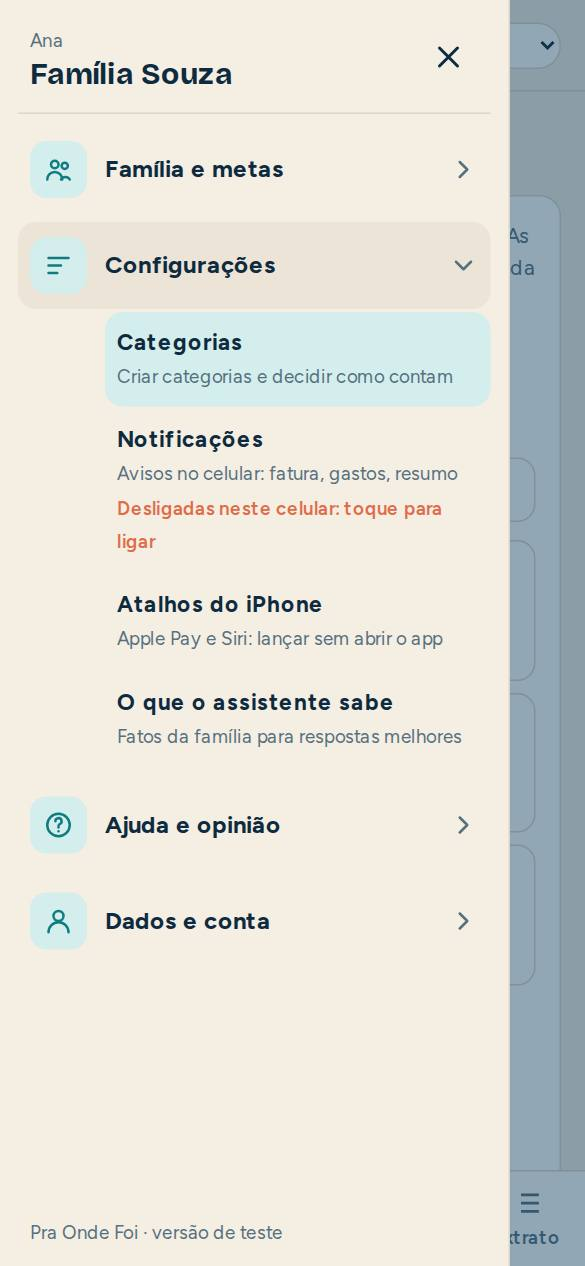
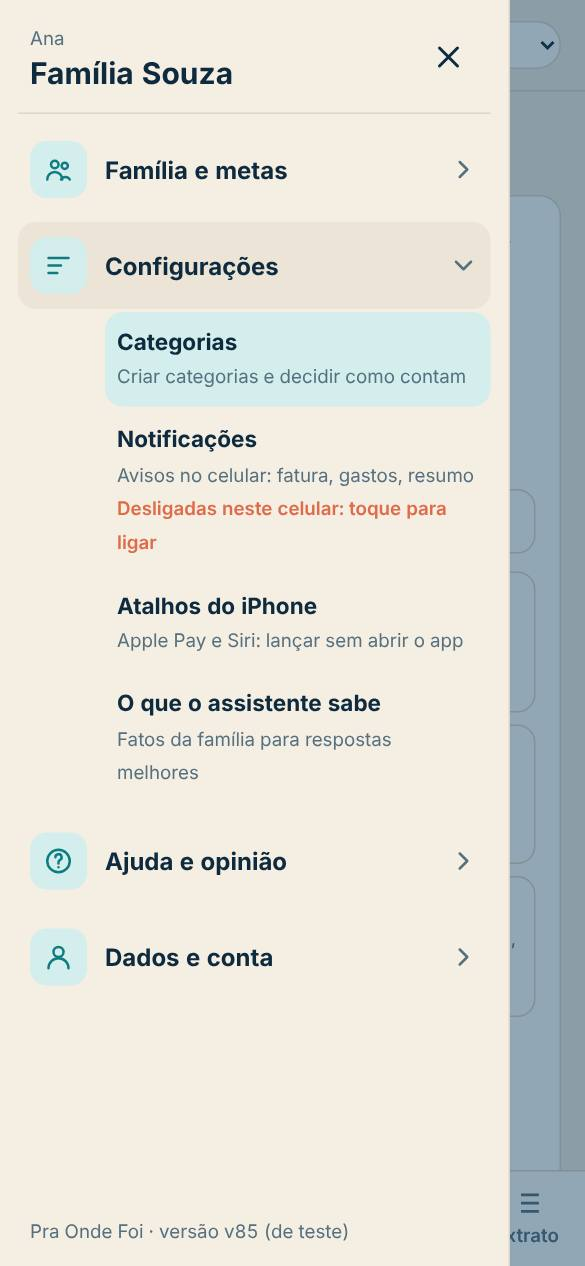
v85: app version in the menu, About and Central; offer and load a new version when coming back to the app
Claude-Session: https://claude.ai/code/session_01HTxyDPPEQrF1SknoQ9axHM

diff --git a/public/js/admin/content.js b/public/js/admin/content.js
@@ -11,7 +11,7 @@ export const FEATURE_LABELS = {
   'perguntar.enviar': 'Pergunta ao assistente', 'fechar.mes': 'Fechou um mês', 'graficos.salvar': 'Salvou gráfico', privacidade: 'Modo privacidade',
   'opiniao.erro': 'Mandou erro', 'opiniao.ideia': 'Mandou ideia', 'opiniao.critica': 'Mandou crítica', 'duvida.ler': 'Leu uma dúvida', 'duvida.perguntar': 'Perguntou nas Dúvidas',
   'menu.familia': 'Menu: Família', 'menu.divisao': 'Menu: Quem paga o quê', 'menu.metas': 'Menu: Metas', 'menu.patrimonio': 'Menu: Patrimônio', 'menu.categorias': 'Menu: Categorias',
-  'menu.avisos': 'Menu: Notificações', 'avisos.convite_sim': 'Aceitou ligar as notificações (pop-up)', 'avisos.convite_nao': 'Disse "agora não" às notificações (pop-up)', 'avisos.ligou': 'Ligou as notificações neste celular', 'aviso.tocou': 'Tocou numa notificação e foi direto ao lugar', 'avisos.teste_chegou': 'O aviso de teste apareceu no celular', 'avisos.teste_nao_chegou': 'Aviso de teste não chegou ao celular (bateria ou internet)', 'avisos.teste_nao_mostrou': 'Aviso de teste chegou, mas o celular não mostrou (ajustes)', 'avisos.teste_bloqueado': 'O celular bloqueou o aviso de teste', 'teste.jornada': 'Dono do produto: rever os convites de abertura', 'menu.contexto': 'Menu: O que o assistente sabe', 'menu.ajuda': 'Menu: Ajuda', 'menu.duvidas': 'Menu: Dúvidas', 'menu.opiniao': 'Menu: Dar opinião',
+  'menu.avisos': 'Menu: Notificações', 'app.atualizar': 'Tocou em "atualizar agora" (versão nova)', 'avisos.convite_sim': 'Aceitou ligar as notificações (pop-up)', 'avisos.convite_nao': 'Disse "agora não" às notificações (pop-up)', 'avisos.ligou': 'Ligou as notificações neste celular', 'aviso.tocou': 'Tocou numa notificação e foi direto ao lugar', 'avisos.teste_chegou': 'O aviso de teste apareceu no celular', 'avisos.teste_nao_chegou': 'Aviso de teste não chegou ao celular (bateria ou internet)', 'avisos.teste_nao_mostrou': 'Aviso de teste chegou, mas o celular não mostrou (ajustes)', 'avisos.teste_bloqueado': 'O celular bloqueou o aviso de teste', 'teste.jornada': 'Dono do produto: rever os convites de abertura', 'menu.contexto': 'Menu: O que o assistente sabe', 'menu.ajuda': 'Menu: Ajuda', 'menu.duvidas': 'Menu: Dúvidas', 'menu.opiniao': 'Menu: Dar opinião',
   'menu.applepay': 'Menu: Atalhos do iPhone', 'conta.zerar': 'Zerou os lançamentos da família', 'extrato.anotacao': 'Anotou um lançamento', 'extrato.categoria': 'Filtrou o Extrato por categoria', 'categorias.juntar': 'Juntou duas categorias', 'lancar.varios': 'Enviou vários arquivos de uma vez', 'lancar.planilha': 'Trouxe lançamentos de uma planilha', 'backup.planilha': 'Baixou a planilha (CSV)', 'exemplo.fatura': 'Do mês de exemplo, foi enviar a fatura', 'exemplo.falar': 'Do mês de exemplo, foi lançar falando', 'seguranca.biometria': 'Ligou a digital ou o rosto', 'seguranca.desbloqueio_bio': 'Entrou de novo com a digital ou o rosto', 'seguranca.desbloqueio_senha': 'Entrou de novo com a senha', 'seguranca.aviso': 'Viu o aviso "vamos desconectar em 30 s"', 'seguranca.continuar': 'Tocou em Continuar no app (aviso de inatividade)', 'seguranca.desconectar': 'Tocou em Desconectar agora (aviso de inatividade)', 'seguranca.tempo': 'Mudou o tempo para desconectar', 'seguranca.bloquear': 'Desconectou o app na mão', 'applepay.codigo': 'Gerou código do atalho do iPhone', 'lancar.comprovante': 'Leu comprovante compartilhado', 'atalho.voz': 'Abriu pelo atalho Falar', 'atalho.nota': 'Abriu pelo atalho Nota', 'atalho.pdf': 'Abriu pelo atalho PDF', 'atalho.compartilhar': 'Compartilhou algo com o app', sininho: 'Abriu o sininho', 'menu.backup': 'Menu: Backup', 'menu.sobre': 'Menu: Sobre', 'menu.metricas': 'Menu: Métricas', 'menu.conta': 'Menu: Conta',
 };
 export const AREA_LABELS = { extrato: 'Extrato', conta: 'Conta', exemplo: 'Mês de exemplo', seguranca: 'Segurança', atalho: 'Atalhos', applepay: 'Atalhos do iPhone', aba: 'Abas', lancar: 'Lançar', perguntar: 'Perguntar', fechar: 'Fechar o mês', graficos: 'Gráficos', privacidade: 'Privacidade', opiniao: 'Opinião', duvida: 'Dúvidas', menu: 'Menu' };

diff --git a/public/js/lib/faq.js b/public/js/lib/faq.js
@@ -38,6 +38,7 @@ export const FAQ = [
   { id: 'ritmo_sonho', t: 'comeco', q: 'De onde vem o "ritmo" do sonho no Início?', a: 'É a média do que sobrou de verdade nos últimos 3 meses completos (com o extrato da conta), e muda sozinha a cada mês. Ao lado aparecem os meses usados. Se vocês acham que conseguem guardar outro valor, digam em menu ☰ → Família e metas → Metas, em "Quanto vocês acham que conseguem guardar": vira o cenário "O plano de vocês". O valor do sonho e a idade também se mudam lá.' },
   { id: 'quanto_guardei', t: 'comeco', q: 'Como vejo quanto guardei em cada mês e no ano?', a: 'No Início, escolha o mês no topo: aparece quanto sobrou e a porcentagem da renda. Em Gráficos há modelos prontos: "Quanto sobrou em cada mês", "Quanto já guardamos no ano" (a soma mês a mês) e "Quanto guardamos da renda". Toque em "Salvar este" para guardar.' },
   { id: 'por_dia', t: 'comeco', q: 'O que é o "dá para gastar cerca de R$ X por dia no cartão"?', a: 'Quando vocês combinam um limite para o cartão (menu ☰ → Metas), o Início mostra quanto ainda cabe até a fatura fechar, dividido pelos dias que faltam. Se a fatura já passou do limite, aparece o aviso de cartão acima do limite.' },
+  { id: 'versao', t: 'comeco', q: 'Como sei qual versão do app eu tenho?', a: 'No fim do menu ☰ aparece "versão v85" (o número muda a cada atualização), e também em menu ☰ → Dados e conta → Sobre o app. O app se atualiza sozinho: quando sai uma versão nova com o app aberto, aparece no fim do menu "Tem versão nova: atualizar agora", e na próxima vez que você voltar ao app depois de um tempo fora, ele já abre na versão nova (nunca no meio de um envio ou de uma revisão).' },
   { id: 'avisos_nao_chegam', t: 'comeco', q: 'Não recebo as notificações do app. O que faço?', a: 'As notificações são ligadas em cada celular. Abra o app pelo ícone, vá em menu ☰ → Notificações e toque em Ativar avisos neste celular; quando o celular perguntar, toque em Permitir. Depois toque em Enviar aviso de teste. Se ele não aparecer, toque em Não apareceu: o app mostra o que conferir nos ajustes do seu celular (notificações do app ou do Chrome, Não perturbe, economia de bateria). No iPhone, o app precisa estar instalado na tela de início.' },
   { id: 'bloqueio', t: 'seguranca', q: 'Por que o app me desconectou sozinho?', a: 'Para proteger os números da família, como fazem os apps de banco: depois de alguns minutos sem uso, o app avisa "vamos desconectar em 30 segundos" (dá para tocar em Continuar no app). Se ninguém tocar, aparece a tela de entrada: toque em Entrar e use a digital ou o rosto (se ligou) ou a senha. O tempo (1 a 30 minutos) fica em menu ☰ → Dados e conta → Conta. Não existe a opção de nunca desconectar.' },
   { id: 'biometria', t: 'seguranca', q: 'Dá para entrar com a digital ou o rosto?', a: 'Sim, se você ligar. O próprio app oferece (é só tocar em "Sim, usar" e confirmar no celular). Se preferir, em menu ☰ → Dados e conta → Conta, toque em "Entrar com a digital ou o rosto" e confirme no celular. Depois, na tela de entrada, o celular só pede a digital ou o rosto quando você toca em Entrar. A digital e o rosto ficam no próprio celular: o app nunca recebe. Dá para desligar quando quiser, no mesmo lugar. Vale para aquele aparelho; no primeiro acesso de um aparelho novo, entre com e-mail e senha.' },

diff --git a/public/js/lib/releases.js b/public/js/lib/releases.js
@@ -4,7 +4,7 @@
 // The server applies each entry once, at the first app opening after the deploy.
 // tests/release.test.mjs blocks a release without its entry (Definição de pronto, see CLAUDE.md).
 import { BUG_STUDY } from './bugstudy.js';
-import { NEW_DOCS, DOC_AVISOS, DOC_SONHO, DOC_SEGURANCA, DOC_LANCAR } from './docsections.js';
+import { NEW_DOCS, DOC_AVISOS, DOC_SONHO, DOC_SEGURANCA, DOC_LANCAR, DOC_TESTES } from './docsections.js';
 
 export const RELEASES = [
   { id: 'r27', version: 'v26', at: '2026-10-30T15:00:00Z', backlog: [], news: { id: 'n20261030', title: 'Sua opinião agora tem lugar no app', items: [
@@ -240,5 +240,12 @@ export const RELEASES = [
     { id: 'central_uma_hora', title: 'Central do produto desconecta só depois de 1 hora', status: 'feito', origin: 'Luiz', effort: 'P', problem: 'A Central bloqueava em 5 minutos, como o app, mas não tem números da família', cost: false, notes: 'Tempo fixo de 1 hora na Central, com o mesmo aviso antes; o app continua com o tempo escolhido em Conta.', from: [], where: 'Central' },
     { id: 'menu_configuracoes', title: 'Menu: "Organizar o app" passa a ser "Configurações"', status: 'feito', origin: 'Luiz', effort: 'P', problem: 'O nome do grupo não dizia o que tinha dentro', cost: false, notes: 'Grupo com Categorias, Notificações, Atalhos do iPhone e O que o assistente sabe.', from: [], where: 'Menu ☰' },
     { id: 'lancar_varios_claro', title: 'Lançar: deixar claro que dá para mandar vários arquivos e planilha', status: 'feito', origin: 'Luiz', effort: 'P', problem: 'A opção de mandar vários arquivos e a planilha existiam, mas ficavam escondidas num texto pequeno', cost: false, notes: 'Selo "Vários de uma vez" no botão; caixa "O que dá para mandar" com os 4 casos; botão "Escolher arquivos (um ou vários)"; ajuda de como marcar vários no iPhone e no Android.', from: [], where: 'Lançar → Fatura ou extrato' },
+  ] },
+  { id: 'r85', version: 'v85', at: '2026-11-04T16:46:00Z', backlog: [], news: { id: 'n20261104i', title: 'A versão do app à vista', items: [
+    'No fim do menu ☰ aparece a versão do app (por exemplo, "versão v85"). Também está em Sobre o app.',
+    'Saiu uma versão nova com o app aberto? O fim do menu mostra "Tem versão nova: atualizar agora".',
+    'E, ao voltar para o app depois de um tempo fora, ele já abre na versão nova, sem atrapalhar um envio ou uma revisão.',
+  ] }, updateDocs: [DOC_TESTES], addBacklog: [
+    { id: 'versao_visivel_e_atualizar', title: 'Versão do app à vista e atualização sem precisar fechar o app', status: 'feito', origin: 'Luiz', effort: 'P', problem: 'No teste da v84 o celular ainda rodava a versão anterior (o app estava aberto quando a nova saiu) e não havia como ver qual versão estava no celular', cost: false, notes: 'Versão no fim do menu, em Sobre o app e no topo da Central. Com versão nova: botão "atualizar agora" no menu e, ao voltar ao app depois de 1 minuto fora sem nada em andamento (fora de Lançar, sem pop-up nem revisão aberta), abre sozinho na nova.', from: [], where: 'Menu ☰' },
   ] },
 ];

diff --git a/public/js/menu.js b/public/js/menu.js
@@ -3,6 +3,7 @@ import { S } from './state.js';
 import { $ } from './ui.js';
 import { esc } from './lib/format.js';
 import { menuNote } from './lib/pushask.js';
+import { APP_VERSION, track } from './usage.js';
 
 const I = p => `<svg viewBox="0 0 24 24" fill="none" stroke="currentColor" stroke-width="2" stroke-linecap="round" stroke-linejoin="round" aria-hidden="true">${p}</svg>`;
 export const SECTIONS = [
@@ -52,12 +53,13 @@ export function openMenu() {
       return `<div class="mgroup${open ? ' open' : ''}" data-g="${g.id}"><button type="button" class="mgh" aria-expanded="${open}" aria-controls="mg-${g.id}"><span class="di">${g.icon}</span><strong>${g.title}</strong>${alert && !open ? '<span class="mdot" aria-label="Notificações desligadas"></span>' : ''}<span class="mchev" aria-hidden="true">${I('<path d="M9 6l6 6-6 6"/>')}</span></button>
       <ul class="drawer-list" id="mg-${g.id}"${open ? '' : ' hidden'}>${items.map(x => `<li><button type="button" data-sec="${x.key}" ${S.tab === 'ajustes' && S.sec === x.key ? 'aria-current="page"' : ''}>
         <span><strong>${x.title}</strong><br><span class="tiny muted">${x.desc}</span>${x.key === 'avisos' && menuNote(S.pushStatus) ? `<br><span class="tiny dnote">${menuNote(S.pushStatus)}: toque para ligar</span>` : ''}</span></button></li>`).join('')}</ul></div>`; }).join('')}</div>
-    <p class="tiny muted drawer-foot">Pra Onde Foi · versão de teste</p>`;
+    <div class="drawer-foot">${S.updateReady ? '<button class="btn primary" type="button" id="updNow">Tem versão nova: atualizar agora</button>' : ''}<p class="tiny muted" id="appVer">Pra Onde Foi · versão ${APP_VERSION} (de teste)</p></div>`;
   lastFocus = document.activeElement;
   dr.hidden = bg.hidden = false; document.body.style.overflow = 'hidden';
   requestAnimationFrame(() => { dr.classList.add('open'); bg.classList.add('open'); });
   $('#menuBtn').setAttribute('aria-expanded', 'true');
   $('#drawerX').onclick = () => closeMenu();
+  if ($('#updNow')) $('#updNow').onclick = () => { track('app.atualizar'); location.reload(); };
   dr.querySelectorAll('[data-sec]').forEach(b => b.onclick = () => { S.sec = b.dataset.sec; closeMenu(false); S.go('ajustes'); });
   // One group open at a time; tapping the open one closes it.
   dr.querySelectorAll('.mgh').forEach(h => h.onclick = () => {

diff --git a/public/js/main.js b/public/js/main.js
@@ -286,7 +286,17 @@ configureCatPicker({
 (async function boot() {
   // Registered first thing: Android only offers a real install (our icon and name) once the service worker is active.
   if ('serviceWorker' in navigator) {
-    navigator.serviceWorker.register('/sw.js').catch(() => {});
+    const hadSW = !!navigator.serviceWorker.controller;
+    navigator.serviceWorker.register('/sw.js').then(r => { document.addEventListener('visibilitychange', () => { if (!document.hidden) r.update().catch(() => {}); }); }).catch(() => {});
+    // A new version took over (the app was open while it was published): the menu offers it, and coming back to
+    // the app after a while with nothing in progress loads it by itself.
+    navigator.serviceWorker.addEventListener('controllerchange', () => { if (hadSW) S.updateReady = true; });
+    let hiddenAt = 0;
+    document.addEventListener('visibilitychange', () => {
+      if (document.hidden) { hiddenAt = Date.now(); return; }
+      const busy = document.querySelector('.busyov, .cfm-wrap, .ann, #review:not([hidden]), #shReview:not([hidden]), #rcReview:not([hidden]), #pwBox:not([hidden])') || S.tab === 'lancar';
+      if (S.updateReady && hiddenAt && Date.now() - hiddenAt > 60e3 && !busy) location.reload();
+    });
     navigator.serviceWorker.addEventListener('message', e => { if (e.data?.type === 'open' && S.hh) openLink(parseLink(e.data.url)); });
   }
   captureInviteFromUrl();

diff --git a/public/js/admin/admin.js b/public/js/admin/admin.js
@@ -2,6 +2,7 @@
 // Only for ADMIN_EMAILS: the data comes from /api/admin and /api/metrics, which check the login.
 import * as db from '../db.js';
 import { initLock } from '../lock.js';
+import { APP_VERSION } from '../usage.js';
 import { esc } from '../lib/format.js';
 import { $, toast, confirmInline, invalid, clearInvalid, md } from '../ui.js';
 import { checkName, checkNumber } from '../lib/validate.js';
@@ -80,7 +81,7 @@ async function save(key, msg) {
   const { data } = await db.sb.auth.getSession();
   token = data?.session?.access_token || '';
   if (!token) { $('#aMain').innerHTML = '<div class="panel stack"><h2>Entre primeiro</h2><p class="small">Abra o app, entre com o seu e-mail e senha e volte para esta página.</p><div><a class="btn primary" href="/">Abrir o app</a></div></div>'; return; }
-  $('#aWho').textContent = data.session.user.email;
+  $('#aWho').textContent = data.session.user.email + ' · versão ' + APP_VERSION;
   initLock({ sb: db.sb, user: data.session.user.id, name: data.session.user.user_metadata?.display_name || '', email: data.session.user.email, minutes: 60 }); // no family numbers here: one hour
   try {
     const [b, p, c, f, sv, dc, nw] = await Promise.all(['backlog', 'pricing', 'canvas', 'faq', 'services', 'docs', 'news'].map(k => api('GET', k)));

diff --git a/public/js/views/ajustes.js b/public/js/views/ajustes.js
@@ -1,6 +1,6 @@
 import { S, settings, goals, reindex, monthKeys, txsOf, presets } from '../state.js';
 import * as db from '../db.js';
-import { track } from '../usage.js';
+import { track, APP_VERSION } from '../usage.js';
 import { KINDS, kindOf, kindByKey, byCategory } from '../lib/calc.js';
 import { suggestBudgets, budgetsOf } from '../lib/budget.js';
 import { esc, todayISO, brl } from '../lib/format.js';
@@ -100,7 +100,7 @@ export function render(el) {
 
   <div class="panel stack" data-sec="sobre">
     <h2>Sobre o app</h2>
-    <p class="small"><strong>Pra Onde Foi</strong> mostra para onde vai o dinheiro da família: lê faturas e extratos em PDF de qualquer banco, confere os totais e separa por categoria. Versão de teste com família e amigos.</p>
+    <p class="small"><strong>Pra Onde Foi</strong> mostra para onde vai o dinheiro da família: lê faturas e extratos em PDF de qualquer banco, confere os totais e separa por categoria. Versão de teste com família e amigos. Este celular está na versão <strong id="aboutVer">${APP_VERSION}</strong> (aparece também no fim do menu ☰).</p>
     <h3>O que o app guarda</h3>
     <ul class="small">
       <li>Os lançamentos, as categorias, as metas e os ajustes da sua família. Só quem está na família vê.</li>

diff --git a/public/js/lib/testbook.js b/public/js/lib/testbook.js
@@ -97,6 +97,9 @@ export const TESTS = [
     'Um lançamento por linha, com acentos certos, valores com vírgula e a coluna "Cartão ou conta".'),
   t('menu_configuracoes', 'Menu e telas', 'v84', 'ambos', 'Grupo Configurações no menu',
     ['Abra o menu ☰.'], 'O grupo com Categorias, Notificações, Atalhos do iPhone e O que o assistente sabe se chama Configurações.', true),
+  t('versao_no_menu', 'Menu e telas', 'v85', 'ambos', 'Ver a versão do app e atualizar',
+    ['Abra o menu ☰ e role até o fim.', 'Depois de uma versão nova sair, com o app aberto, abra o menu de novo.', 'Saia do app por mais de 1 minuto e volte.'],
+    'O fim do menu mostra "versão v85 (de teste)". Com versão nova, aparece "Tem versão nova: atualizar agora"; ao voltar depois de 1 minuto fora, o app já abre na versão nova (a não ser que esteja em Lançar ou com uma revisão aberta).', true),
   // Segurança
   t('aviso_desconectar', 'Segurança', 'v84', 'ambos', 'Aviso antes de desconectar',
     ['Menu ☰ → Dados e conta → Conta → Desconectar depois de: 1 minuto.', 'Deixe o app aberto, sem tocar, por uns 40 segundos.', 'Toque em Continuar no app.', 'Espere de novo, sem tocar, até passar 1 minuto.'],

diff --git a/public/sw.js b/public/sw.js
@@ -1,6 +1,6 @@
 // Service worker: caches the app shell so it opens fast and installs as an app.
 // Data and /api calls always go to the network.
-const VERSION = 'v84';
+const VERSION = 'v85';
 const SHELL = ['/', '/index.html', '/css/app.css', '/js/main.js', '/js/db.js', '/js/ai.js', '/js/ui.js', '/js/state.js', '/js/speech.js', '/js/tour.js', '/js/steps.js', '/js/onboarding.js', '/js/art.js', '/js/install.js', '/js/push.js', '/js/metrics.js', '/js/privacy.js', '/js/lib/recurring.js', '/js/lib/settle.js', '/js/photos.js', '/js/menu.js', '/js/coach.js', '/js/views/graficos.js', '/js/views/fechar.js', '/js/lib/closing.js', '/js/lib/charts.js', '/js/lib/receipt.js', '/js/lib/insights.js', '/js/lib/budget.js', '/js/lib/pricing.js', '/js/lib/faq.js', '/js/feedback.js', '/js/usage.js', '/js/lib/navlog.js', '/js/applepay.js', '/js/lib/quick.js', '/js/lib/feed.js', '/js/messages.js', '/js/lib/news.js',
   '/js/lib/format.js', '/js/lib/calc.js', '/js/lib/categorize.js', '/js/lib/parse.js', '/js/lib/validate.js',
   '/js/views/resumo.js', '/js/views/lancar.js', '/js/views/perguntar.js', '/js/views/extrato.js', '/js/views/ajustes.js',

diff --git a/public/js/lib/docsections.js b/public/js/lib/docsections.js
@@ -57,6 +57,7 @@ export const DOC_AVISOS = { id: 'notificacoes_doc', title: 'Notificações: do s
 
 export const DOC_TESTES = { id: 'caderno_doc', title: 'Caderno de testes', body: `- Planejar → Caderno de testes lista o que testar num celular de verdade, por funcionalidade: passos e o que deve acontecer.
 - "Robô também testa": o teste automático já confere a cada mudança (navegador do computador e Safari do iPhone).
+- Antes de testar, confira a versão no fim do menu ☰ do celular ("versão v85"). Ela tem de ser a mesma da versão em teste; se for anterior, toque em "Tem versão nova: atualizar agora" ou feche o app de vez e abra de novo. A Central mostra a versão no topo, ao lado do e-mail.
 - Marque Passou ou Falhou. Falhou vira bug no backlog, em Agora, com o que aconteceu.
 - Toda versão com algo visível precisa trazer seus casos (Definição de pronto; o teste automático bloqueia a publicação sem eles).` };
 

diff --git a/public/js/usage.js b/public/js/usage.js
@@ -5,7 +5,7 @@ import * as db from './db.js';
 import { S } from './state.js';
 import { tapCell, tapLabel, cleanError } from './lib/navlog.js';
 
-export const APP_VERSION = 'v84';
+export const APP_VERSION = 'v85';
 const OK = /^[a-z_]{2,20}(\.[a-z_]{2,20})?$/;
 export const device = () => { const u = navigator.userAgent; return (/iphone|ipad/i.test(u) ? 'iPhone' : /android/i.test(u) ? 'Android' : /mac/i.test(u) ? 'Mac' : /windows/i.test(u) ? 'Windows' : 'Outro') + (window.matchMedia?.('(display-mode: standalone)').matches || navigator.standalone ? ' · app instalado' : ' · navegador'); };
 export const screenOf = () => S.tab === 'ajustes' ? 'menu.' + (S.sec || 'familia') : S.tab === 'resumo' ? 'inicio' : (S.tab || '');

diff --git a/public/css/app.css b/public/css/app.css
@@ -261,7 +261,8 @@ body.cfm-open{overflow:hidden}
 .drawer-list .di{flex:none;width:38px;height:38px;border-radius:11px;background:var(--accent-soft);color:var(--accent);display:flex;align-items:center;justify-content:center}
 .drawer-list button[aria-current] .di{background:var(--accent);color:var(--accent-ink)}
 .drawer-list .di svg{width:20px;height:20px}
-.drawer-foot{margin-top:auto;padding:14px 8px 0}
+.drawer-foot{margin-top:auto;padding:14px 8px 0;display:flex;flex-direction:column;gap:8px}
+.drawer-foot p{margin:0}
 .subhead{display:flex;align-items:center;gap:12px}
 .subhead h2{margin:0}
 @media (prefers-reduced-motion:reduce){.drawer,.drawer-bg{transition:none}}
